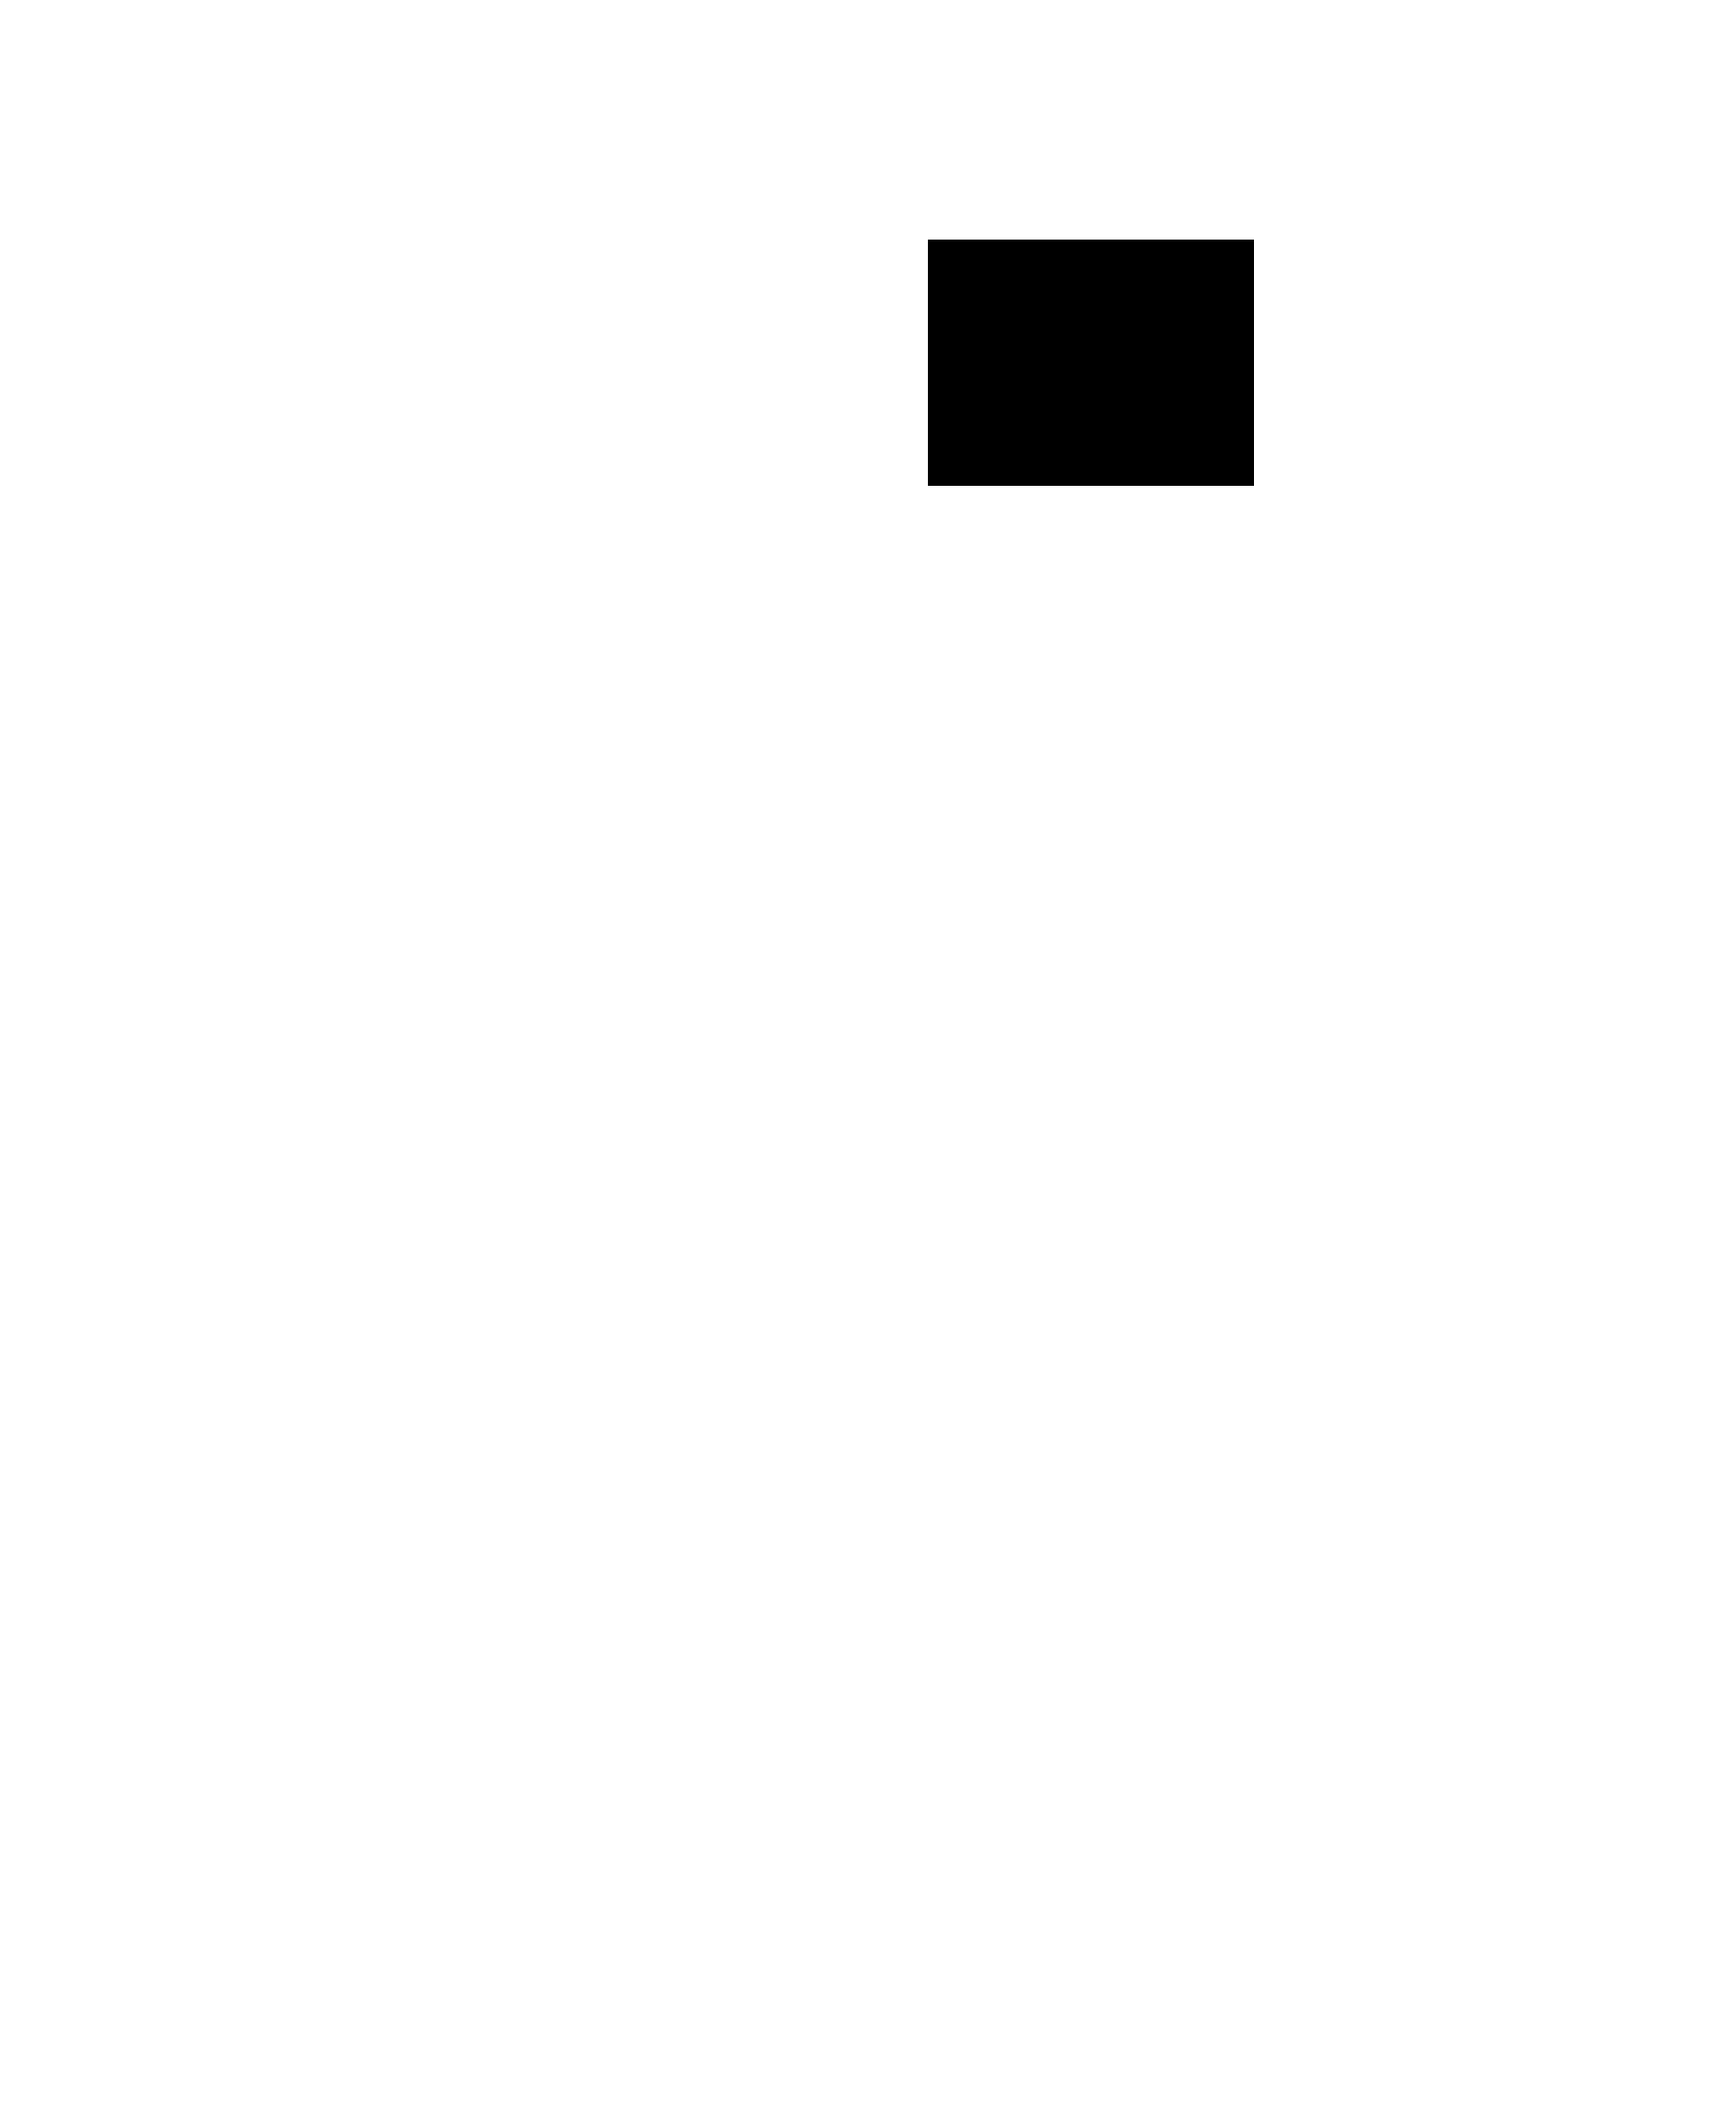
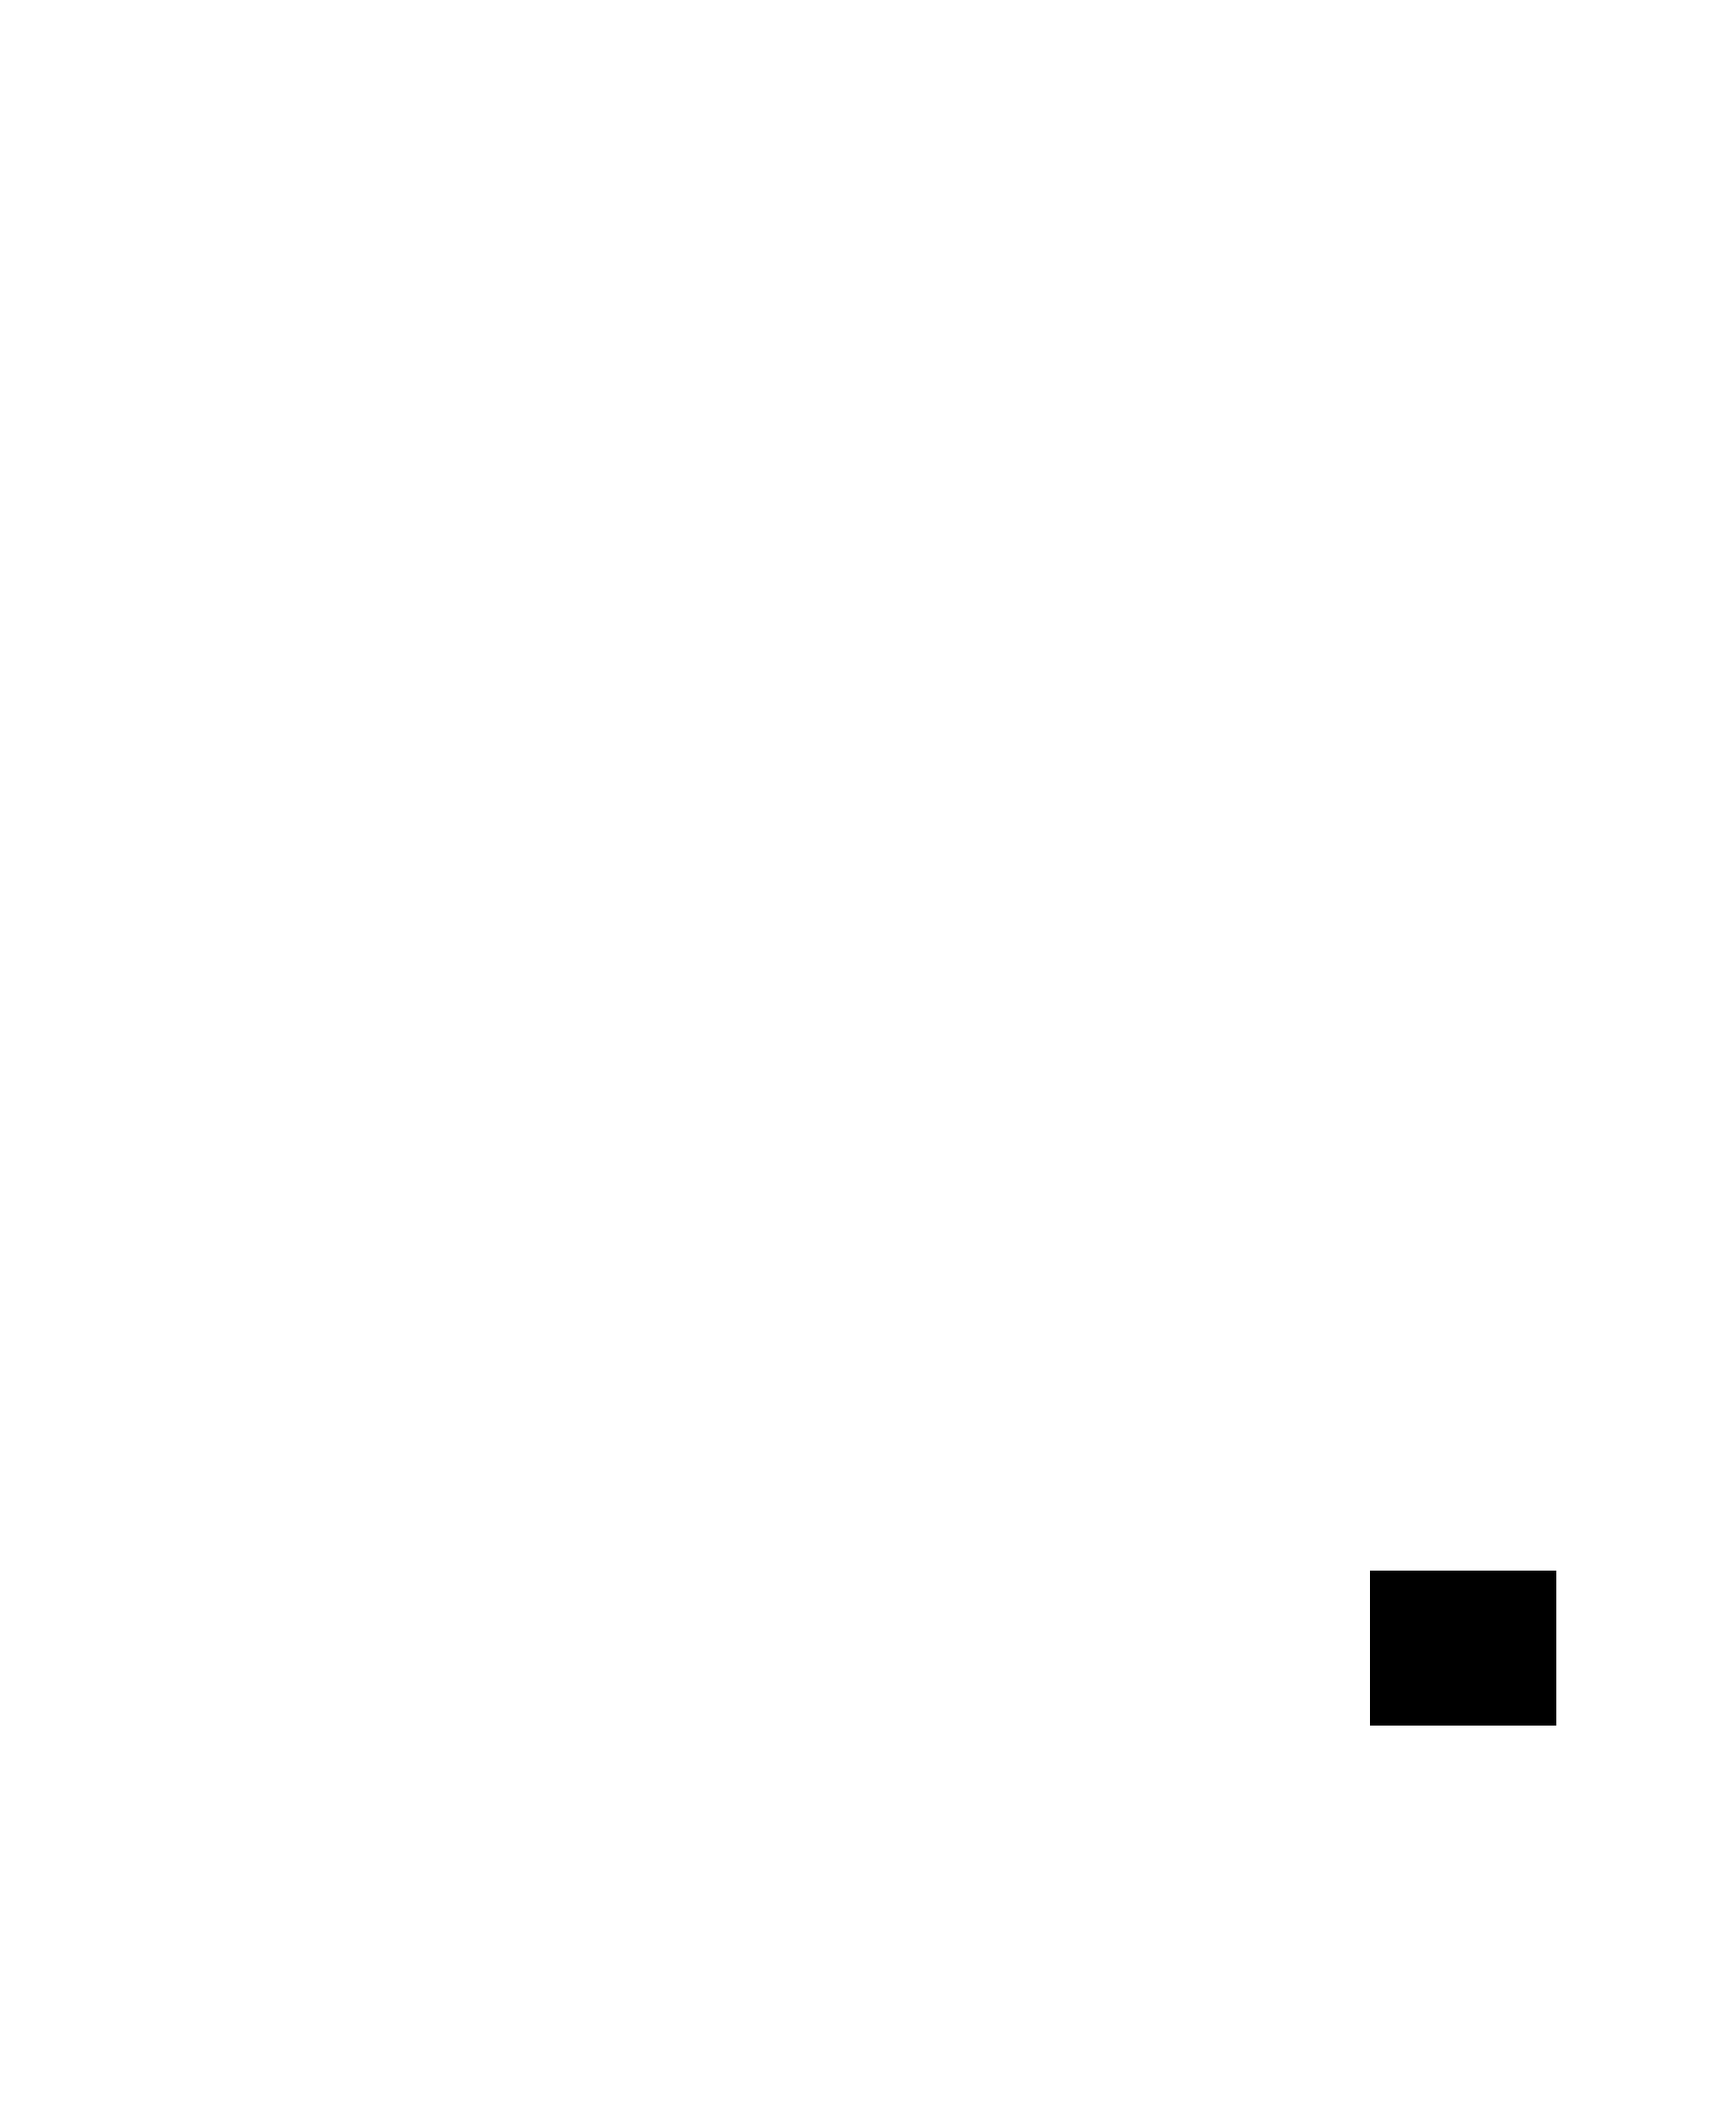
Text_removal_mask modifications

Changed region(s): [[0.5307, 0.0927, 0.7492, 0.2472], [0.7804, 0.7416, 0.9053, 0.8343]]

diff --git a/week2/main.py b/week2/main.py
@@ -62,43 +62,48 @@ def text_removal_mask(img_gray, name, strel, strel_pd, num_cols, coords):
         i += 1
 
     j = 0
-    black_pixels = 0
-    while(black_pixels < 5000 and j < num_cols):
+    w= 0
+    h=0
+    while((w*h < 20000 or w*h > 1000000 or w<h) and j < 3):
 
         level = round(np.mean(values_t[j,:]))
         
         if level <= 128:
             final_img = cv.morphologyEx(img_gray, cv.MORPH_OPEN, strel)
-            mask = (final_img >= max(0,level-3)) * (final_img <= level+3)
+            mask = (final_img >= max(0,level-1)) * (final_img <= level+1)
             mask = mask.astype(np.uint8)
             mask *= 255
         elif level > 128:
             final_img = cv.morphologyEx(img_gray, cv.MORPH_CLOSE, strel)
-            mask = (final_img >= max(0,level-3)) * (final_img <= level+3)
+            mask = (final_img >= max(0,level-1)) * (final_img <= level+1)
             mask = mask.astype(np.uint8)
             mask *= 255
 
-        # Find contours of created mask
-        contours,_ = cv.findContours(mask, cv.RETR_EXTERNAL, cv.CHAIN_APPROX_NONE)
-        
-        # Find largest contour (it will contain the text bounding box)
-        contour_sizes = [(cv.contourArea(contour), contour) for contour in contours]
-        largest_contour = max(contour_sizes, key=lambda x: x[0])[1]
-        
-        # Find bounding box belonging to detected contour
-        (x,y,w,h) = cv.boundingRect(largest_contour)
+        #mask = cv.morphologyEx(mask, cv.MORPH_OPEN, np.ones((2,2), np.uint8))   
 
-        # Draw bounding boxes coordinates on original image to visualize it
-        cv.rectangle(img_gray, (x,y), (x+w,y+h), (0,255,0), 2)
-        
-        # Bboxes coordinates of the text positions
-        tlx = x
-        tly = y
-        brx = x + w
-        bry = y + h
+        if np.sum(mask) != 0:
 
-        # Extract bounding boxes pixels 
-        black_pixels = w*h
+            # Find contours of created mask
+            contours,_ = cv.findContours(mask, cv.RETR_EXTERNAL, cv.CHAIN_APPROX_NONE)
+
+            # Find largest contour (it will contain the text bounding box)
+            contour_sizes = [(cv.contourArea(contour), contour) for contour in contours]
+            largest_contour = max(contour_sizes, key=lambda x: x[0])[1]
+            
+            # Find bounding box belonging to detected contour
+            (x,y,w,h) = cv.boundingRect(largest_contour)
+
+            # Draw bounding boxes coordinates on original image to visualize it
+            cv.rectangle(img_gray, (x,y), (x+w,y+h), (0,255,0), 2)
+            
+            # Bboxes coordinates of the text positions
+            tlx = x
+            tly = y
+            brx = x + w
+            bry = y + h
+
+            # Extract bounding boxes pixels 
+            bb_size = w*h
 
         j+=1
 
